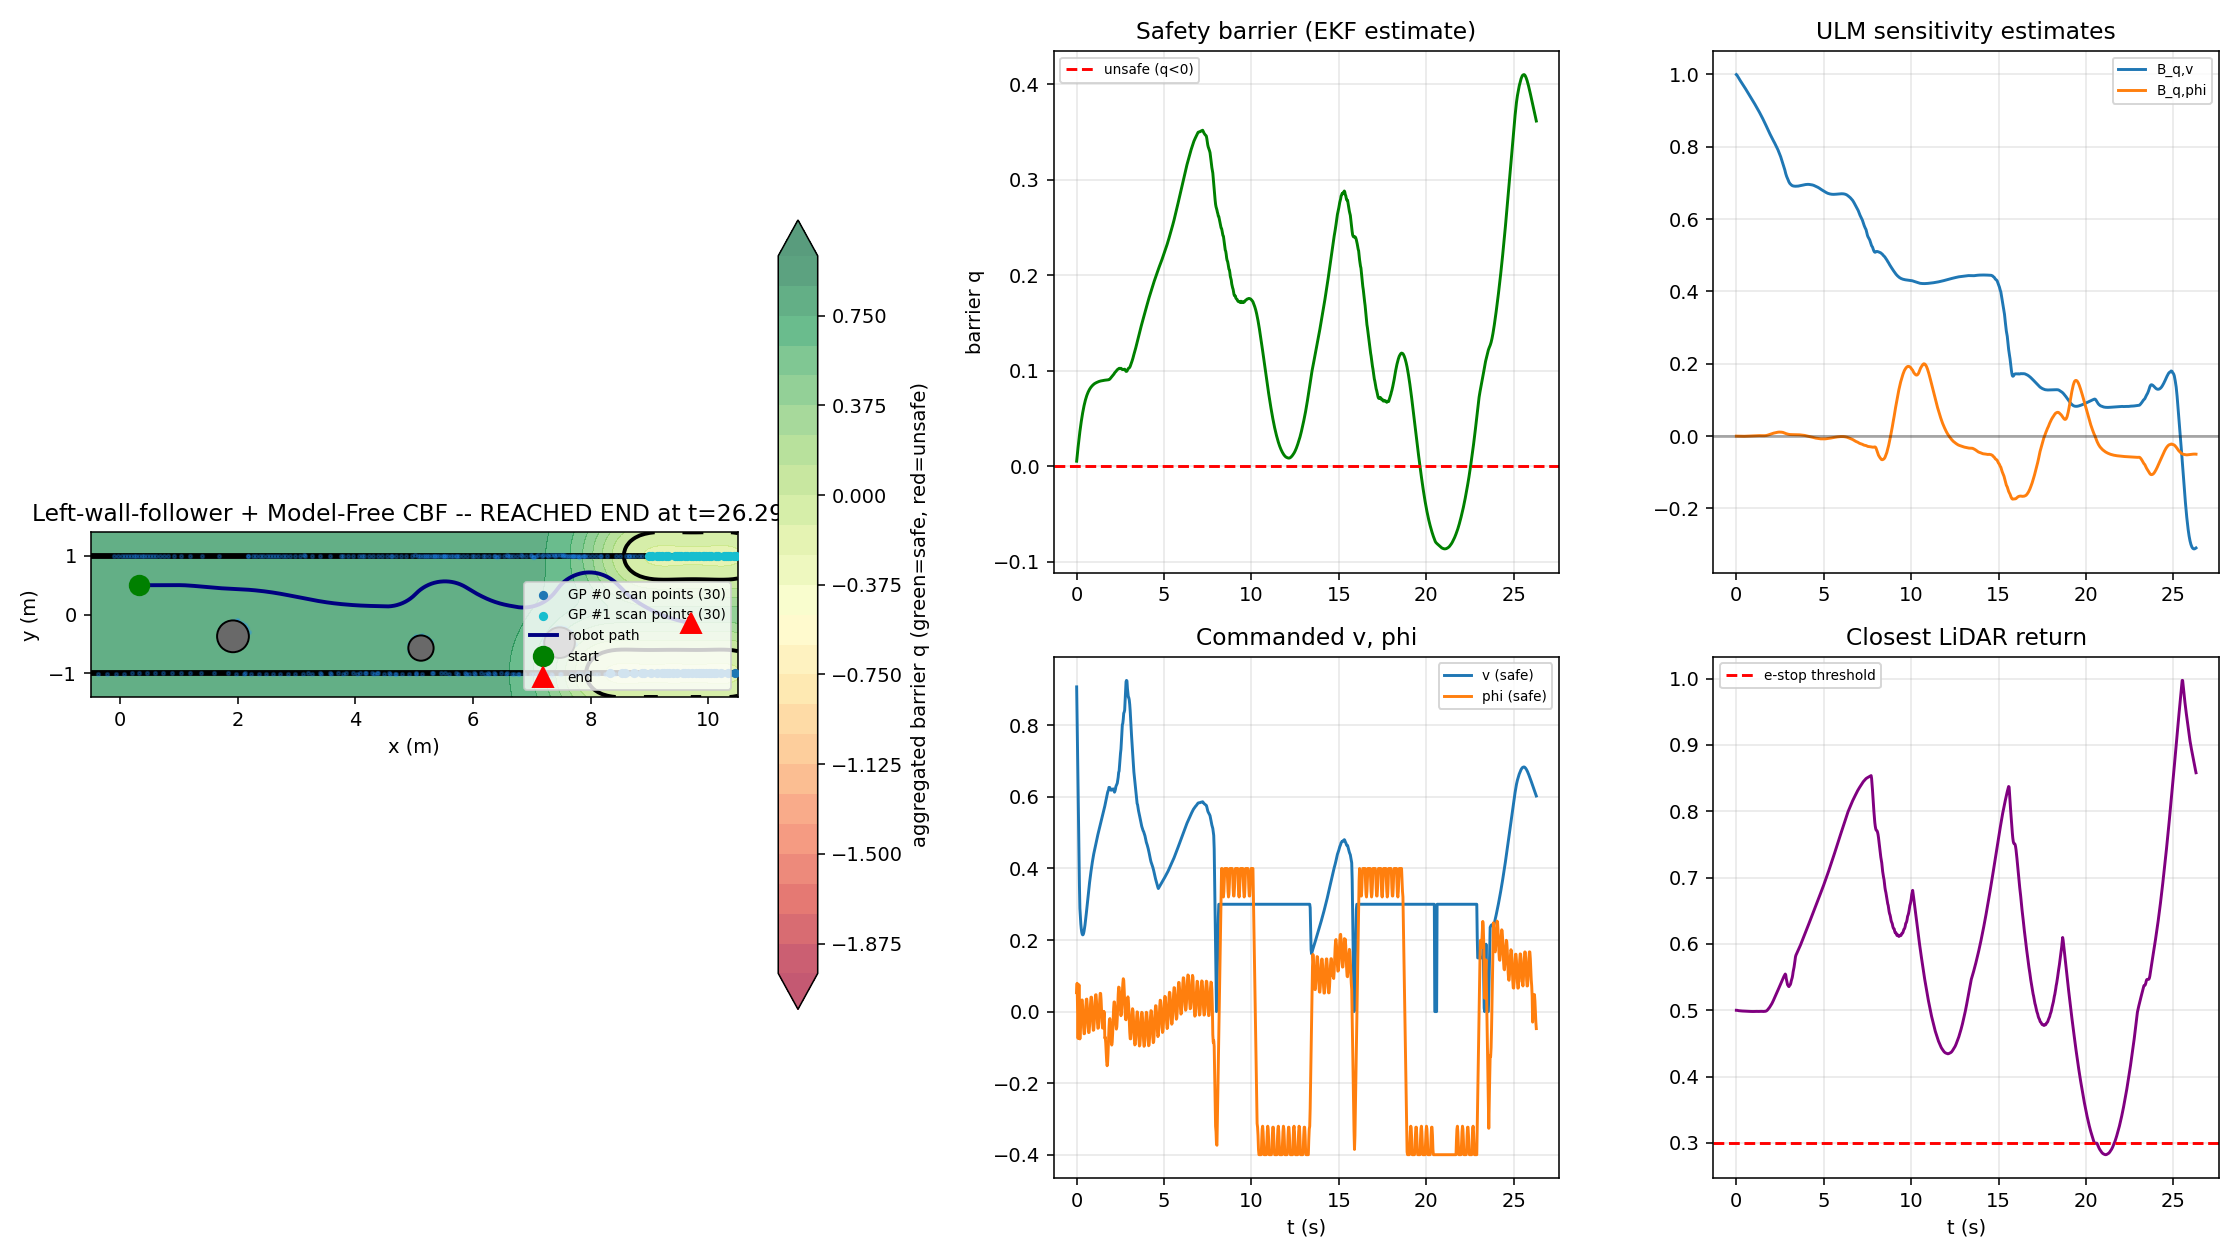
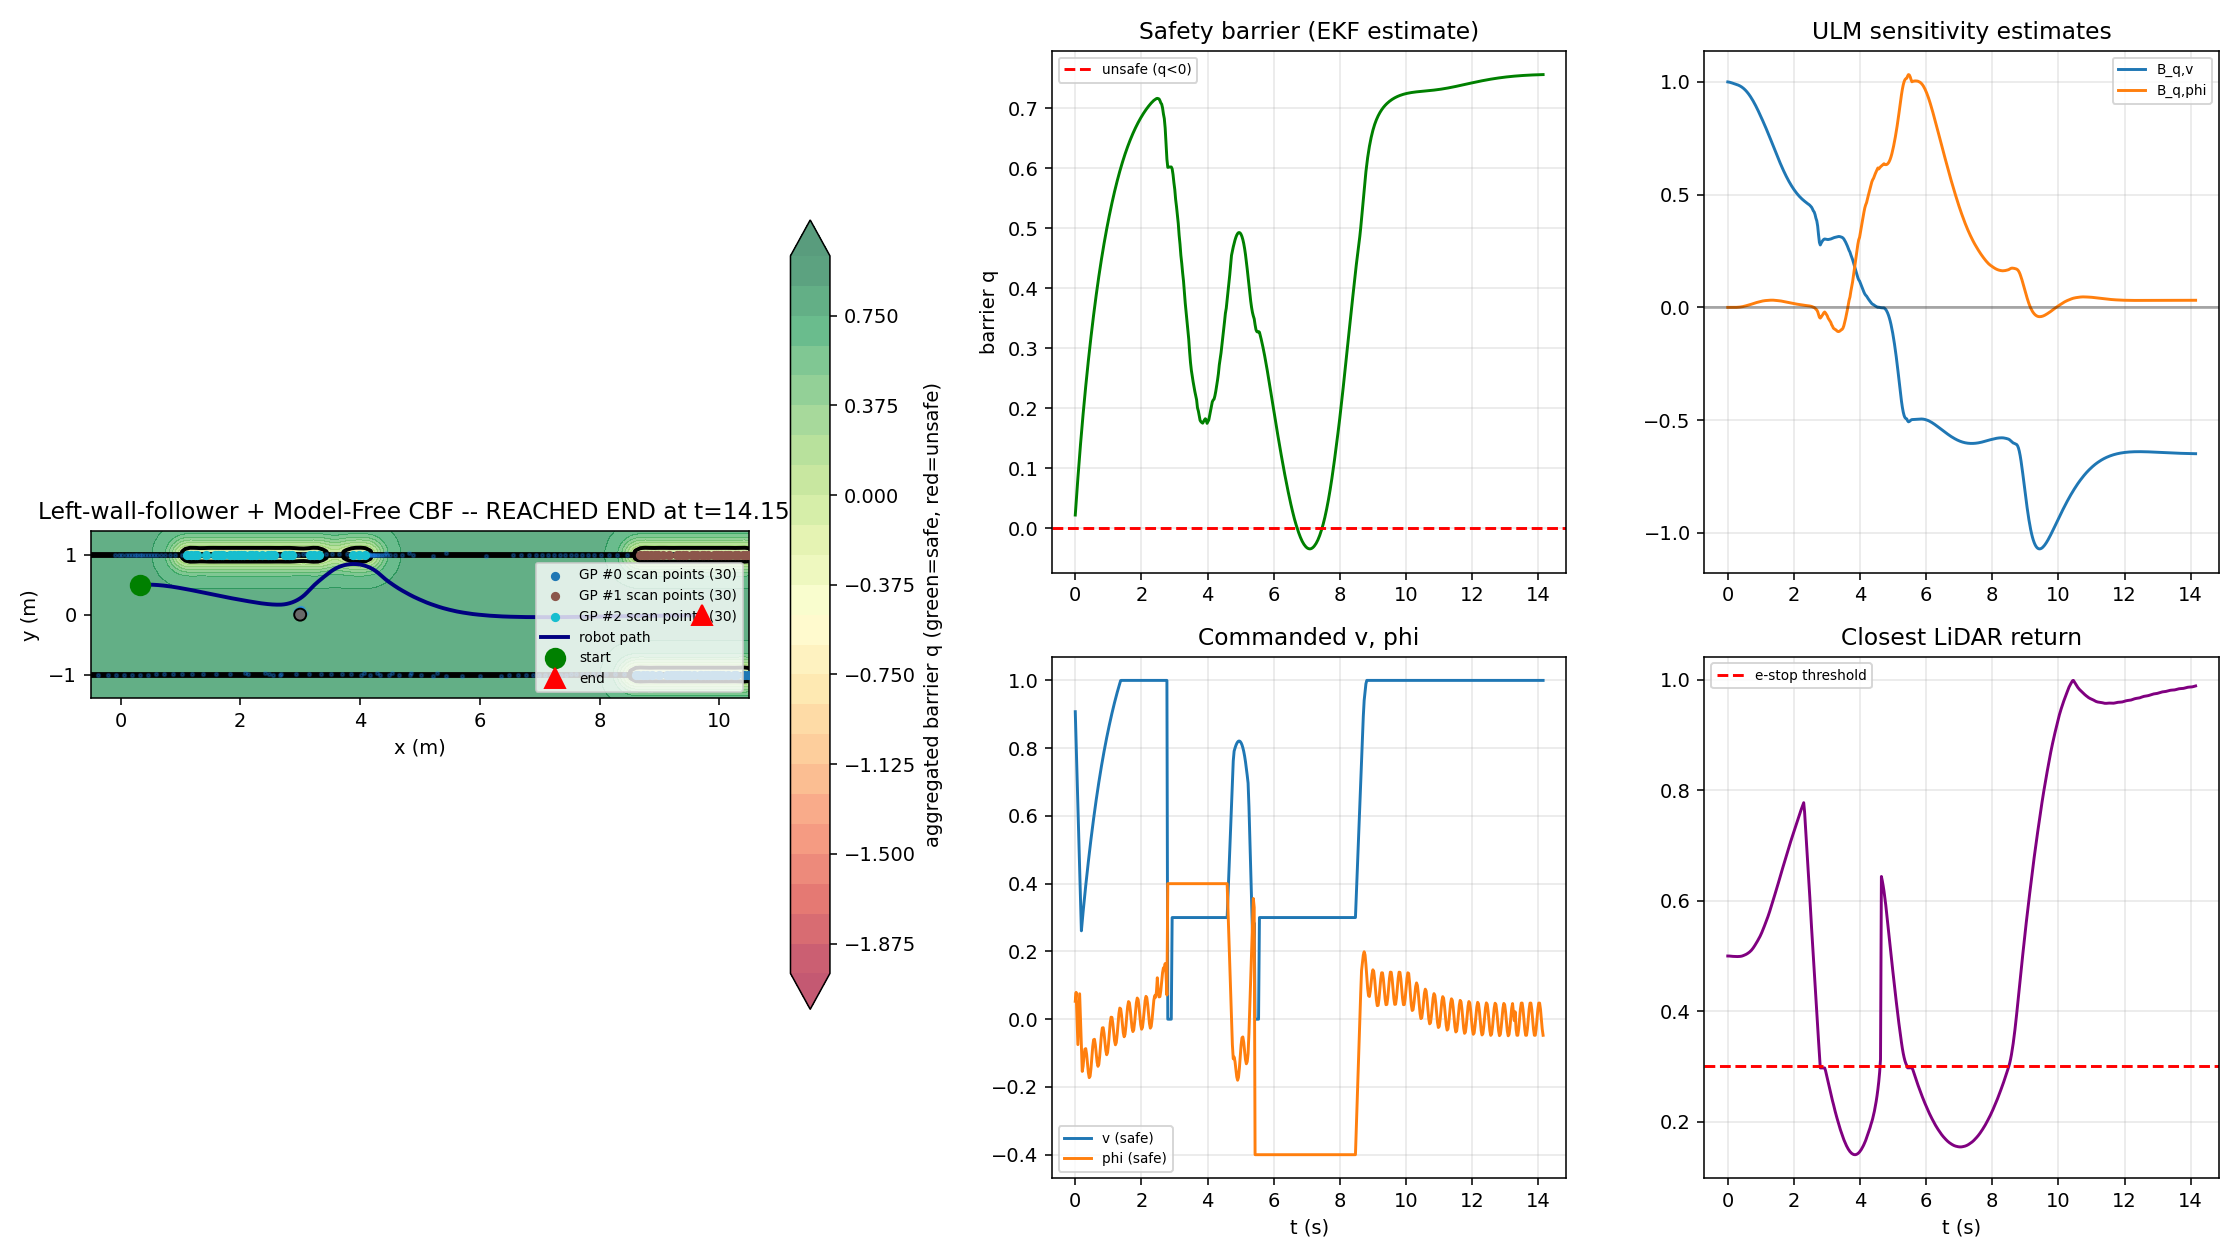
viz?

diff --git a/auto_drive/cbf_Node_refactored.py b/auto_drive/cbf_Node_refactored.py
@@ -100,9 +100,11 @@ import numpy as np
 import rclpy
 from rclpy.executors import MultiThreadedExecutor
 from rclpy.node import Node
-from nav_msgs.msg import Odometry
+from nav_msgs.msg import Odometry, Path
 from sensor_msgs.msg import LaserScan
 from ackermann_msgs.msg import AckermannDriveStamped
+from geometry_msgs.msg import PoseStamped, Point
+from visualization_msgs.msg import Marker, MarkerArray
 
 
 def rbf_kernel(X1, X2, sigma_f, ell):
@@ -857,6 +859,26 @@ class ControllerNode(Node):
         self._scan_log_w = csv.writer(self._scan_log_f)
         self._scan_log_header_written = False
 
+        # --- RViz2 live visualization -------------------------------------
+        # Published at PERCEPTION rate (once per real scan, from
+        # lidar_callback -- not per control substep) since none of this
+        # needs 114 Hz resolution to look smooth in RViz, and building
+        # Marker messages every substep would be pure overhead. Uses
+        # whatever frame /odom's own header declares (captured in
+        # odom_callback) rather than hardcoding 'odom', so this lines up
+        # with the TF tree your localization stack already publishes,
+        # whatever it calls that frame.
+        self._odom_frame_id = 'odom'   # overwritten by the first real Odometry message
+        self.viz_pub = self.create_publisher(MarkerArray, '/cbf_viz', 10)
+        self.path_pub = self.create_publisher(Path, '/cbf_path', 10)
+        self._path_msg = Path()
+        self._path_max_poses = 3000    # bound memory on a long run
+        self._last_q_hat = 0.0
+        self._last_B_q_hat = np.zeros(2)
+        self._last_feasible = True
+        self._last_min_range = 999.0
+        self._last_action = 'SAFE'
+
         self.create_subscription(Odometry, '/odom', self.odom_callback, 10)
         self.create_subscription(LaserScan, '/scan', self.lidar_callback, 10)
         self.cmd_pub = self.create_publisher(AckermannDriveStamped, '/drive', 10)
@@ -986,6 +1008,7 @@ class ControllerNode(Node):
 
     # -------------------------------------------------------------------
     def odom_callback(self, msg):
+        self._odom_frame_id = msg.header.frame_id or self._odom_frame_id
         self.x = msg.pose.pose.position.x
         self.y = msg.pose.pose.position.y
         quat = msg.pose.pose.orientation
@@ -1050,6 +1073,109 @@ class ControllerNode(Node):
         dt_sub = scan_dt / self.n_control_substeps
         for _ in range(self.n_control_substeps):
             self._control_step(valid_ranges, raw_side_bias, dt_sub)
+
+        self._publish_viz(now)
+
+    def _publish_viz(self, stamp):
+        """
+        RViz2 live view: per-obstacle GP points, a status sphere + text at
+        the vehicle's position (color/content from the most recent control
+        step, stashed by _control_step), an e-stop-threshold ring, and the
+        driven path. Deliberately NOT the full barrier-field contour that
+        analyze_hardware_log.py draws offline -- evaluating that grid (GP
+        posterior mean over ~150x50 points per obstacle) at ~38 Hz would be
+        real, avoidable load on the Jetson for something that only needs to
+        look right after the fact anyway. Everything here is O(number of
+        already-stored GP points), which is cheap.
+        """
+        stamp_msg = stamp.to_msg()
+        frame_id = self._odom_frame_id
+        markers = MarkerArray()
+
+        colors = [(0.12, 0.47, 0.71), (1.00, 0.50, 0.05), (0.17, 0.63, 0.17),
+                  (0.84, 0.15, 0.16), (0.58, 0.40, 0.74), (0.55, 0.34, 0.29)]
+        for obs_id, gp in self.cbf.gps.items():
+            if gp.n_points == 0:
+                continue
+            m = Marker()
+            m.header.frame_id = frame_id
+            m.header.stamp = stamp_msg
+            m.ns = 'obstacle_points'
+            m.id = int(obs_id)
+            m.type = Marker.SPHERE_LIST
+            m.action = Marker.ADD
+            m.scale.x = m.scale.y = m.scale.z = 0.06
+            c = colors[int(obs_id) % len(colors)]
+            m.color.r, m.color.g, m.color.b, m.color.a = c[0], c[1], c[2], 0.9
+            for (px, py) in gp.P:
+                m.points.append(Point(x=float(px), y=float(py), z=0.0))
+            markers.markers.append(m)
+
+        q = self._last_q_hat
+        status = Marker()
+        status.header.frame_id = frame_id
+        status.header.stamp = stamp_msg
+        status.ns = 'status'
+        status.id = 0
+        status.type = Marker.SPHERE
+        status.action = Marker.ADD
+        status.pose.position.x, status.pose.position.y, status.pose.position.z = self.x, self.y, 0.1
+        status.scale.x = status.scale.y = status.scale.z = 2 * self.r_buf
+        if not self._last_feasible or self._last_action == 'ESTOP':
+            status.color.r, status.color.g, status.color.b = 0.9, 0.1, 0.1
+        elif q < 0.3:
+            status.color.r, status.color.g, status.color.b = 0.9, 0.7, 0.1
+        else:
+            status.color.r, status.color.g, status.color.b = 0.1, 0.8, 0.1
+        status.color.a = 0.85
+        markers.markers.append(status)
+
+        text = Marker()
+        text.header.frame_id = frame_id
+        text.header.stamp = stamp_msg
+        text.ns = 'status_text'
+        text.id = 1
+        text.type = Marker.TEXT_VIEW_FACING
+        text.action = Marker.ADD
+        text.pose.position.x, text.pose.position.y, text.pose.position.z = self.x, self.y, 0.5
+        text.scale.z = 0.25
+        text.color.r = text.color.g = text.color.b = text.color.a = 1.0
+        text.text = (f'{self._last_action}  q={q:.2f}  min_r={self._last_min_range:.2f}  '
+                     f'feas={self._last_feasible}  Bq=[{self._last_B_q_hat[0]:.2f},{self._last_B_q_hat[1]:.2f}]')
+        markers.markers.append(text)
+
+        ring = Marker()
+        ring.header.frame_id = frame_id
+        ring.header.stamp = stamp_msg
+        ring.ns = 'estop_ring'
+        ring.id = 2
+        ring.type = Marker.LINE_STRIP
+        ring.action = Marker.ADD
+        ring.scale.x = 0.02
+        ring.color.r = 1.0
+        ring.color.g = 0.2 if self._last_min_range < 0.30 else 0.8
+        ring.color.b = 0.2
+        ring.color.a = 0.8
+        for k in range(33):
+            ang = 2 * np.pi * k / 32
+            ring.points.append(Point(x=self.x + 0.30 * np.cos(ang), y=self.y + 0.30 * np.sin(ang), z=0.05))
+        markers.markers.append(ring)
+
+        self.viz_pub.publish(markers)
+
+        pose = PoseStamped()
+        pose.header.frame_id = frame_id
+        pose.header.stamp = stamp_msg
+        pose.pose.position.x, pose.pose.position.y = self.x, self.y
+        half_yaw = self.theta / 2.0
+        pose.pose.orientation.z = float(np.sin(half_yaw))
+        pose.pose.orientation.w = float(np.cos(half_yaw))
+        self._path_msg.header.frame_id = frame_id
+        self._path_msg.header.stamp = stamp_msg
+        self._path_msg.poses.append(pose)
+        if len(self._path_msg.poses) > self._path_max_poses:
+            self._path_msg.poses = self._path_msg.poses[-self._path_max_poses:]
+        self.path_pub.publish(self._path_msg)
 
     def _control_step(self, valid_ranges, raw_side_bias, dt_sub):
         """
@@ -1205,6 +1331,15 @@ class ControllerNode(Node):
         action = 'ESTOP' if min_range < 0.30 else \
                  ('SAFE' if feasible and abs(u_safe[0] - u_ref[0]) < 0.1 else
                   ('STEER' if abs(u_safe[1] - u_ref[1]) > 0.05 else 'BRAKE'))
+
+        # Stashed for _publish_viz() (called from lidar_callback at
+        # perception rate, not here) to read the most recent control step's
+        # outputs without re-deriving them.
+        self._last_q_hat = q_hat
+        self._last_B_q_hat = B_q_hat
+        self._last_feasible = feasible
+        self._last_min_range = min_range
+        self._last_action = action
 
         # sigma_k (Theorem 2 confidence margin, Eq. 12-14) isn't returned by
         # compute_safe_control -- recompute it here against the SAME

diff --git a/simulate_left_wall_follower.py b/simulate_left_wall_follower.py
@@ -61,11 +61,15 @@ _stub_module('rclpy', init=lambda *a, **k: None, shutdown=lambda *a, **k: None)
 _stub_module('rclpy.node', Node=_StubNode)
 _stub_module('rclpy.executors', MultiThreadedExecutor=object)
 _stub_module('nav_msgs')
-_stub_module('nav_msgs.msg', Odometry=object)
+_stub_module('nav_msgs.msg', Odometry=object, Path=object)
 _stub_module('sensor_msgs')
 _stub_module('sensor_msgs.msg', LaserScan=object)
 _stub_module('ackermann_msgs')
 _stub_module('ackermann_msgs.msg', AckermannDriveStamped=object)
+_stub_module('geometry_msgs')
+_stub_module('geometry_msgs.msg', PoseStamped=object, Point=object)
+_stub_module('visualization_msgs')
+_stub_module('visualization_msgs.msg', Marker=object, MarkerArray=object)
 
 sys.path.insert(0, 'auto_drive')
 from cbf_Node_refactored import ModelFreeCBF, SafetyULM_EKF, PositionULM_EKF  # noqa: E402
